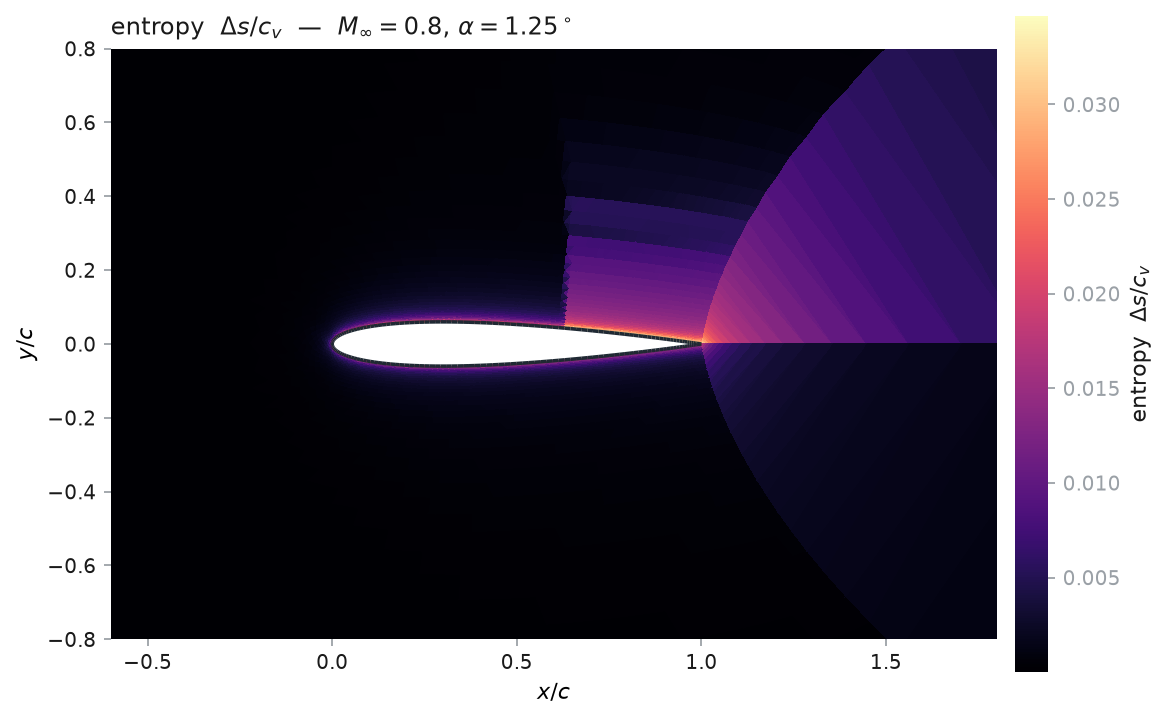
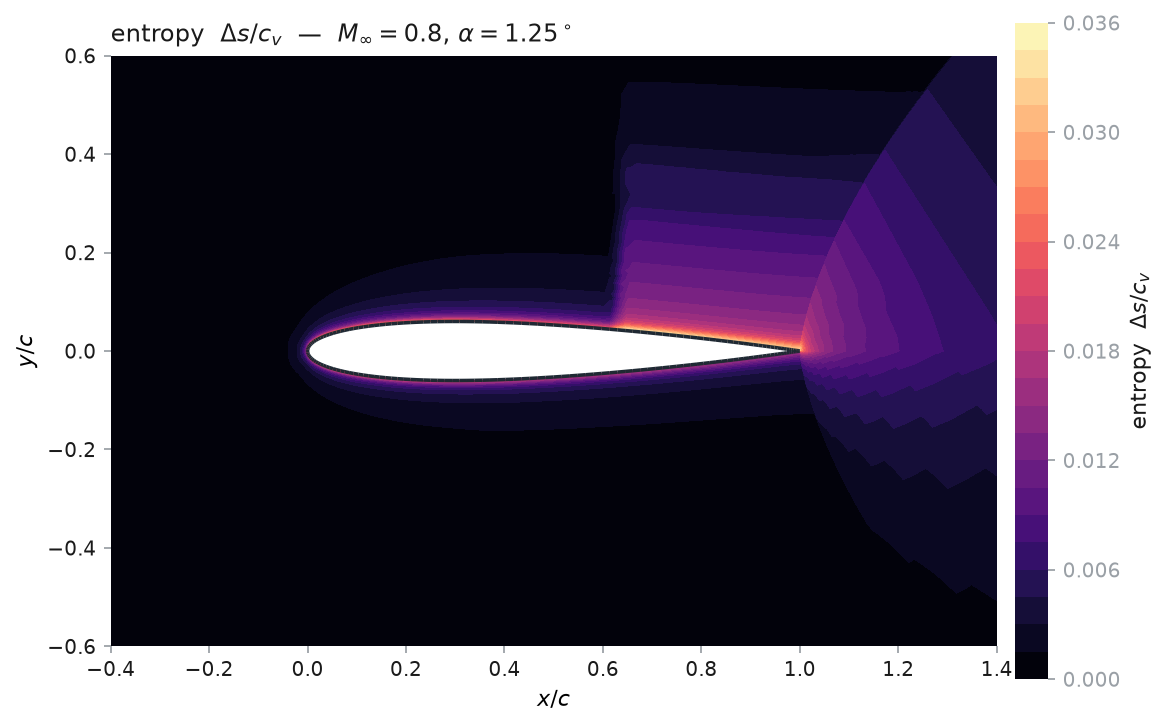
Smooth-shade the field figures, and show a case with unmistakable shocks
Two things the README figure got wrong, both fair criticism.

**The mesh was the picture.**  `plot_field` drew one flat colour per cell,
so on a triangulated O-grid the radial spokes and the two triangles of every
quadrilateral were plainly visible and the eye read the grid before the
flow.  It now defaults to filled contours of the cell values averaged onto
nodes, with `shading="flat"` still there -- and the docstring says plainly
which one is honest: flat is exactly what the solver holds, smooth is an
interpolation the solution does not contain and can make a coarse mesh look
better resolved than it is.  Use flat when the question is about the
discretisation; the default when it is about the flow.  `./fv2d.sh solve`
gains `shading=` so both are one argument away.

Two smaller things fell out of looking closely: `levels` was accepted by
`plot_field` and never used, and the colour bar put its ticks on contour
band boundaries, so it read 0.08, 0.24, 0.40 -- numbers about the plotting
rather than the flow.

**The shock was there but easy to miss.**  The legacy point, M = 0.8 at
1.25 degrees, has one shock at 63% chord in a modest pocket.  Half a Mach
number higher it is unmistakable: at M = 0.85, alpha = 1 degree *both*
surfaces go supersonic and each pocket ends in its own shock, measured at
x/c = 0.865 above and 0.66 below, peak Mach 1.412, cl = 0.334.  On the
surface-pressure plot that is two near-vertical jumps, each crossing back
[…]

diff --git a/examples/06_postprocess.py b/examples/06_postprocess.py
@@ -1,16 +1,21 @@
 #!/usr/bin/env python3
 """Every figure this code draws about a *result*, from one script.
 
-Three questions, three figures:
+Three questions, and the figures that answer them:
 
 * **Where is the load on the section?** The surface pressure distribution,
   drawn as $-c_p$ so suction is up, with the sonic line marked -- on a
-  transonic case the crossing back through it *is* the shock.
-* **What does the field look like?** A Mach-number contour with the sonic line
-  in white, so the supersonic pocket and the shock that closes it are visible
-  rather than inferred.
+  transonic case the crossing back through it *is* a shock.
+* **What does the field look like?** Mach number with the sonic line in white,
+  so the supersonic pocket and the shock that closes it are visible rather
+  than inferred, and entropy, which shows where the scheme's own error is made.
 * **How do the loads vary with incidence?** Lift, drag and moment against
   angle of attack at a fixed Mach number, from one mesh.
+
+Two operating points, because they answer different questions.  ``transonic``
+is the legacy case and the one `docs/verification.md` tabulates.  ``shock`` is
+half a Mach number higher and is the clearer picture: supersonic over most of
+*both* surfaces, each pocket closed by its own shock.
 
     python examples/06_postprocess.py [output-directory]
 
@@ -35,40 +40,55 @@ from src.plotting import plot_field, plot_polar, plot_surface_pressure  # noqa: 
 from src.postprocess import forces, shock_location  # noqa: E402
 
 SECTION = "0012"
-TRANSONIC = FlowConditions(mach=0.8, alpha_deg=1.25)
+
+#: ``(tag, flow)``.  The tag names the files, so the figures say which case
+#: they came from without anyone having to remember.
+POINTS = (
+    ("transonic", FlowConditions(mach=0.8, alpha_deg=1.25)),
+    ("shock", FlowConditions(mach=0.85, alpha_deg=1.0)),
+)
+
 SWEEP_MACH = 0.5  # subcritical, so the polar is the clean one
 ANGLES = (-4.0, -2.0, 0.0, 2.0, 4.0, 6.0, 8.0)
-OPTIONS = SolverOptions(tolerance=1e-6, max_iterations=60_000, print_interval=0)
+OPTIONS = SolverOptions(tolerance=1e-6, max_iterations=80_000, print_interval=0)
+
+#: Framed on the section rather than on the domain.  At far-field scale the
+#: airfoil is a few pixels across and the shock is invisible.
+WINDOW = (-0.4, 1.4, -0.6, 0.6)
 
 
 def main() -> None:
     out = Path(sys.argv[1] if len(sys.argv) > 1 else "figures")
     out.mkdir(parents=True, exist_ok=True)
 
-    # One case, reused for both figures below: the mesh does not depend on the
-    # flow, and at this resolution it is not free.
-    # The same mesh docs/verification.md quotes its transonic numbers from, so
-    # the figure and the table are the same run.
+    # One case for everything below: the mesh does not depend on the flow, and
+    # at this resolution it is not free.  It is also the mesh
+    # docs/verification.md quotes its transonic numbers from, so the figures
+    # and that table are the same run rather than two runs that agree.
     mesh = Discretization(n_surface=192, n_radial=64, far_field_radius=20.0)
     case = build_case(naca4(SECTION, mesh.n_surface), mesh)
     print(f"{case.airfoil.name}, {case.metrics.n_elements} cells\n")
 
-    # -- the transonic point: surface pressure, and the field ---------------
-    print(f"solving M = {TRANSONIC.mach:g} at {TRANSONIC.alpha_deg:g} deg ...")
-    result = case.solve(TRANSONIC, OPTIONS)
-    print(f"  {result.summary()}")
-    print(f"  {forces(result).summary()}")
-    print(f"  shock at x/c = {shock_location(result):.3f}")
+    for tag, flow in POINTS:
+        print(f"solving M = {flow.mach:g} at {flow.alpha_deg:g} deg  [{tag}] ...")
+        result = case.solve(flow, OPTIONS)
+        print(f"  {result.summary()}")
+        print(f"  {forces(result).summary()}")
+        print(f"  upper-surface shock at x/c = {shock_location(result):.3f}")
 
-    print(f"  wrote {plot_surface_pressure(result, out / 'cp_transonic.png')}")
-    print(f"  wrote {plot_field(result, out / 'mach_transonic.png', scalar='mach')}")
-    # Entropy is conserved along streamlines in smooth flow, so this field is
-    # the scheme's own error everywhere except across the shock, where it is
-    # physical.  Worth a look next to the Mach field.
-    print(f"  wrote {plot_field(result, out / 'entropy_transonic.png', scalar='entropy')}")
+        print(f"  wrote {plot_surface_pressure(result, out / f'cp_{tag}.png')}")
+        print(f"  wrote {plot_field(result, out / f'mach_{tag}.png', window=WINDOW)}")
+        # Entropy is conserved along streamlines in smooth flow, so this field
+        # is the scheme's own error everywhere except across the shock, where it
+        # is physical.  Worth a look next to the Mach field.
+        print(
+            f"  wrote "
+            f"{plot_field(result, out / f'entropy_{tag}.png', scalar='entropy', window=WINDOW)}"
+        )
+        print()
 
     # -- the polar: loads against incidence, one mesh -----------------------
-    print(f"\nsweeping {len(ANGLES)} angles at M = {SWEEP_MACH:g} ...")
+    print(f"sweeping {len(ANGLES)} angles at M = {SWEEP_MACH:g} ...")
     print(f"{'alpha':>7}  {'cl':>10}  {'cd':>10}  {'cm(c/4)':>10}")
     state, loads, solved = None, [], []
     for alpha in ANGLES:
@@ -90,7 +110,11 @@ def main() -> None:
         "theory would claim it for, and drag is a parabola about the incidence of\n"
         "minimum drag.  Both are inviscid -- there is no skin friction in these\n"
         "equations -- so the drag here is numerical plus, above the critical Mach\n"
-        "number, wave drag.  docs/verification.md measures which is which."
+        "number, wave drag.  docs/verification.md measures which is which.\n"
+        "\nThe field figures are smooth-shaded, which interpolates between cell\n"
+        "values.  Pass shading='flat' to plot_field, or shading=flat to\n"
+        "'./fv2d.sh solve', to see the piecewise-constant values the solver\n"
+        "actually holds -- and the mesh along with them."
     )
 
 

diff --git a/src/plotting.py b/src/plotting.py
@@ -310,7 +310,8 @@ def plot_field(
     *,
     scalar: str = "mach",
     window: tuple[float, float, float, float] = (-0.6, 1.8, -0.8, 0.8),
-    levels: int = 24,
+    shading: str = "smooth",
+    levels: int = 32,
     cmap: str | None = None,
     title: str | None = None,
     **kwargs: Any,
@@ -320,6 +321,26 @@ def plot_field(
     Uses :data:`FIELD_CMAP` through :func:`field_cmap`, which refuses the
     non-monotonic maps -- see the module docstring for why that matters more on
     a transonic field than on most.
+
+    ``shading`` is a choice about honesty against legibility, and both answers
+    are defensible:
+
+    ``"flat"``
+        One constant colour per cell, which is **exactly what the solver
+        holds**.  It also draws the mesh: on a triangulated O-grid the radial
+        spokes and the two triangles of every quadrilateral are plainly visible,
+        and at a glance the picture is as much about the grid as about the flow.
+    ``"smooth"`` (the default)
+        Filled contours of the cell values averaged onto nodes.  The averaging
+        is an **interpolation that the solution does not contain**, so a smooth
+        field can make a coarse mesh look better resolved than it is.  What it
+        buys is that the flow is what you see: the supersonic pocket and the
+        shock that closes it, rather than a lattice.
+
+    Use ``"flat"`` when the question is about the discretisation -- checking a
+    refinement, or showing a student what a finite-volume solution actually is
+    -- and the default when the question is about the flow.  ``levels`` sets the
+    number of contour bands and is ignored by ``"flat"``.
     """
     plt = _pyplot()
     from matplotlib.collections import LineCollection
@@ -330,26 +351,35 @@ def plot_field(
     values = scalar_field(result.state, result.flow, scalar)
     mesh = result.mesh
     tri = Triangulation(mesh.node_coords[:, 0], mesh.node_coords[:, 1], mesh.elements)
+    nodal = _node_average(mesh, values)
 
     fig, ax = plt.subplots(figsize=(7.4, 5.0), **kwargs)
-    art = ax.tripcolor(
-        tri, facecolors=values, cmap=field_cmap(cmap), shading="flat", rasterized=True
-    )
+    if shading == "flat":
+        art = ax.tripcolor(
+            tri, facecolors=values, cmap=field_cmap(cmap), shading="flat", rasterized=True
+        )
+    elif shading == "smooth":
+        art = ax.tricontourf(tri, nodal, levels=levels, cmap=field_cmap(cmap))
+        # Contour fills are drawn as separate polygons, and a PDF viewer shows
+        # hairline seams between them unless they are told to overlap.
+        for collection in art.collections if hasattr(art, "collections") else []:
+            collection.set_edgecolor("face")
+    else:
+        raise ValueError(f"unknown shading {shading!r}; choose 'smooth' or 'flat'")
+
     if scalar == "mach":
         # the sonic line is the one contour worth naming on a transonic field
-        ax.tricontour(
-            tri,
-            _node_average(mesh, values),
-            levels=[1.0],
-            colors="white",
-            linewidths=1.2,
-        )
+        ax.tricontour(tri, nodal, levels=[1.0], colors="white", linewidths=1.2)
     wall = mesh.boundary_edges[mesh.tag_slice(BoundaryTag.WALL), 1:3]
     ax.add_collection(
         LineCollection(mesh.node_coords[wall], colors=_WALL, linewidths=1.6, zorder=3)
     )
 
-    bar = fig.colorbar(art, ax=ax, fraction=0.035, pad=0.02)
+    # Without this the ticks land on contour-band boundaries, so the colour bar
+    # reads 0.08, 0.24, 0.40 ... -- numbers about the plotting, not the flow.
+    from matplotlib.ticker import MaxNLocator
+
+    bar = fig.colorbar(art, ax=ax, fraction=0.035, pad=0.02, ticks=MaxNLocator(7))
     bar.outline.set_visible(False)
     bar.ax.tick_params(colors=_MUTED, labelsize=9, width=0.8, length=3)
     bar.set_label(SCALAR_LABELS.get(scalar, scalar), color=_INK, fontsize=10)

diff --git a/src/cli.py b/src/cli.py
@@ -277,7 +277,9 @@ def cmd_solve(args: argparse.Namespace) -> int:
     if args.figure:
         from .plotting import plot_field
 
-        print(f"  wrote {plot_field(result, args.figure, scalar=args.scalar)}")
+        print(
+            f"  wrote {plot_field(result, args.figure, scalar=args.scalar, shading=args.shading)}"
+        )
     if args.convergence:
         from .plotting import plot_convergence
 
@@ -612,6 +614,13 @@ def build_parser() -> argparse.ArgumentParser:
     )
     solve.add_argument("--figure", type=Path, default=None, help="write a field PNG here")
     solve.add_argument("--scalar", default="mach", help="which field (default: %(default)s)")
+    solve.add_argument(
+        "--shading",
+        choices=("smooth", "flat"),
+        default="smooth",
+        help="'flat' draws one colour per cell, which is what the solver holds and "
+        "also draws the mesh; 'smooth' contours it (default: %(default)s)",
+    )
     solve.add_argument(
         "--convergence", type=Path, default=None, help="write the residual history here"
     )

diff --git a/README.md b/README.md
@@ -17,11 +17,13 @@ result = solve_airfoil("0012", mach=0.8, alpha=1.25)
 print(result.report())
 ```
 
-![Mach number around a NACA 0012 at M 0.8 and 1.25 degrees: a supersonic pocket over the forward upper surface, closed by a shock at 63% chord, with the sonic line drawn in white](docs/figures/mach_transonic.png)
+![Mach number around a NACA 0012 at Mach 0.85 and 1 degree incidence: supersonic flow over most of both surfaces, each pocket ending in a sharp shock front, with the sonic line drawn in white](docs/figures/mach_shock.png)
 
-*NACA 0012 at $M_\infty = 0.8$, $\alpha = 1.25^\circ$. The white line is sonic:
-inside it the flow is supersonic, and the shock that closes the pocket at 63%
-chord is the whole reason this case is the one everybody runs.*
+*NACA 0012 at $M_\infty = 0.85$, $\alpha = 1^\circ$. The free stream is
+subsonic; the flow over the section is not. The white line is sonic, and each
+pocket ends in a **shock** — the near-vertical fronts at 86% chord above and 66%
+below, where the flow jumps back to subsonic in the width of a cell or two.
+Peak Mach 1.41, $c_\ell = 0.334$, $c_d = 0.068$.*
 
 > **All five increments are done.** The solver runs, converges and is verified;
 > the compiled backend, the discrete adjoint and adaptive refinement are in, and
@@ -120,8 +122,8 @@ against incidence, each one command or one function call.
 
 | | |
 |---|---|
-| ![Surface pressure at M 0.8, 1.25 degrees, with the upper-surface shock at 63% chord](docs/figures/cp_transonic.png) | ![Lift, drag and quarter-chord moment of a NACA 0012 against angle of attack at Mach 0.5](docs/figures/polar.png) |
-| `./fv2d.sh solve @transonic cp=cp.png` | `./fv2d.sh sweep @subcritical alphas=-4:8:2 figure=polar.png` |
+| ![Surface pressure at Mach 0.85 and 1 degree: two sharp jumps, the upper surface at 86% chord and the lower at 66%, each crossing back through the sonic line](docs/figures/cp_shock.png) | ![Lift, drag and quarter-chord moment of a NACA 0012 against angle of attack at Mach 0.5](docs/figures/polar.png) |
+| The same two shocks, seen as pressure: `./fv2d.sh solve naca=0012 mach=0.85 alpha=1 cp=cp.png` | `./fv2d.sh sweep @subcritical alphas=-4:8:2 figure=polar.png` |
 
 **Runs fast.** A compiled Numba backend with the whole march fused into one
 `nopython` call — **23× the vectorised reference** on the production mesh, and a

diff --git a/docs/README.md b/docs/README.md
@@ -31,12 +31,28 @@ stops matching the code is a one-command fix:
     figure=docs/figures/adapted.png window=-0.2,1.2,-0.5,0.5
 ```
 
-The four *result* figures — surface pressure, the Mach field, the entropy field
-and the polar — all come from one script, because they all come from the same
-two solves:
+The *result* figures — surface pressure, the Mach field and the entropy field,
+at two operating points, plus the polar — all come from one script, because they
+all come from the same three solves:
 
 ```bash
 python examples/06_postprocess.py docs/figures
+```
+
+The `_transonic` figures are the legacy point, $M_\infty = 0.8$ at
+$1.25^\circ$, which [`verification.md`](verification.md) tabulates. The `_shock`
+figures are $M_\infty = 0.85$ at $1^\circ$, where both surfaces go supersonic
+and each pocket ends in a shock; those are the ones in the top-level README,
+because the shock is unmistakable in them.
+
+**Field figures are smooth-shaded by default**, which interpolates cell values
+onto nodes and contours them. That is a choice: `shading="flat"` draws one
+colour per cell, which is exactly what the solver holds — and draws the mesh
+with it, so the picture becomes as much about the grid as about the flow. Use
+`flat` when the question is about the discretisation:
+
+```bash
+./fv2d.sh solve naca=0012 mach=0.85 alpha=1 figure=cells.png shading=flat
 ```
 
 There is no figure build step and no CI checking them, so this is a **manual

diff --git a/docs/verification.md b/docs/verification.md
@@ -132,6 +132,14 @@ order, and the next section measures what that costs.
 
 ![Mach field, with the sonic line drawn in white](figures/mach_transonic.png)
 
+Half a Mach number higher the picture is harder to miss. At $M_\infty = 0.85$,
+$\alpha = 1^\circ$ — `figures/mach_shock.png` and `figures/cp_shock.png`, also
+drawn by `examples/06_postprocess.py` — **both** surfaces go supersonic and each
+pocket ends in its own shock, at $x/c = 0.865$ above and $0.66$ below, with a
+peak Mach number of 1.412 and $c_\ell = 0.334$. It takes 33 500 iterations
+against this case's 17 925, which is the usual price of a stronger shock on an
+explicit march.
+
 ## Spurious drag, and what first order costs
 
 D'Alembert's paradox says an inviscid, shock-free, steady flow produces

diff --git a/examples/README.md b/examples/README.md
@@ -15,7 +15,7 @@ python examples/01_solve.py
 | **03** | [`03_sensitivity.py`](03_sensitivity.py) — exact gradients, and what they cost | `jax` | 45 s |
 | **04** | [`04_optimise.py`](04_optimise.py) — a shape optimisation driven by them | `jax`, `scipy` | 1.5 min |
 | **05** | [`05_adapt.py`](05_adapt.py) — adaptive against uniform refinement | nothing | 1.5 min |
-| **06** | [`06_postprocess.py`](06_postprocess.py) — every result figure: $c_p$, the Mach field, the polar | `matplotlib` | 1 min |
+| **06** | [`06_postprocess.py`](06_postprocess.py) — every result figure: $c_p$, the Mach and entropy fields, the polar | `matplotlib` | 2 min |
 
 Install what the last two need with `./fv2d.sh install` (or
 `pip install -e ".[all]"`).
